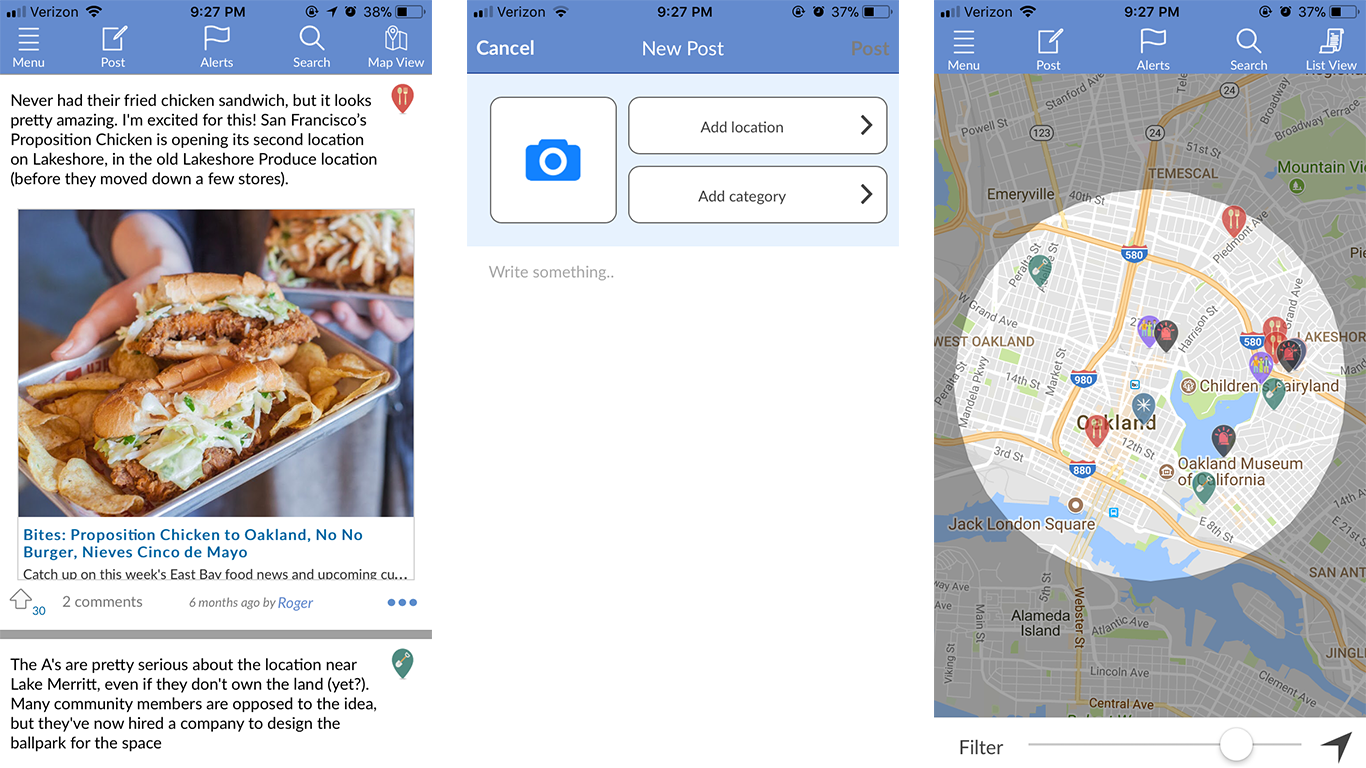
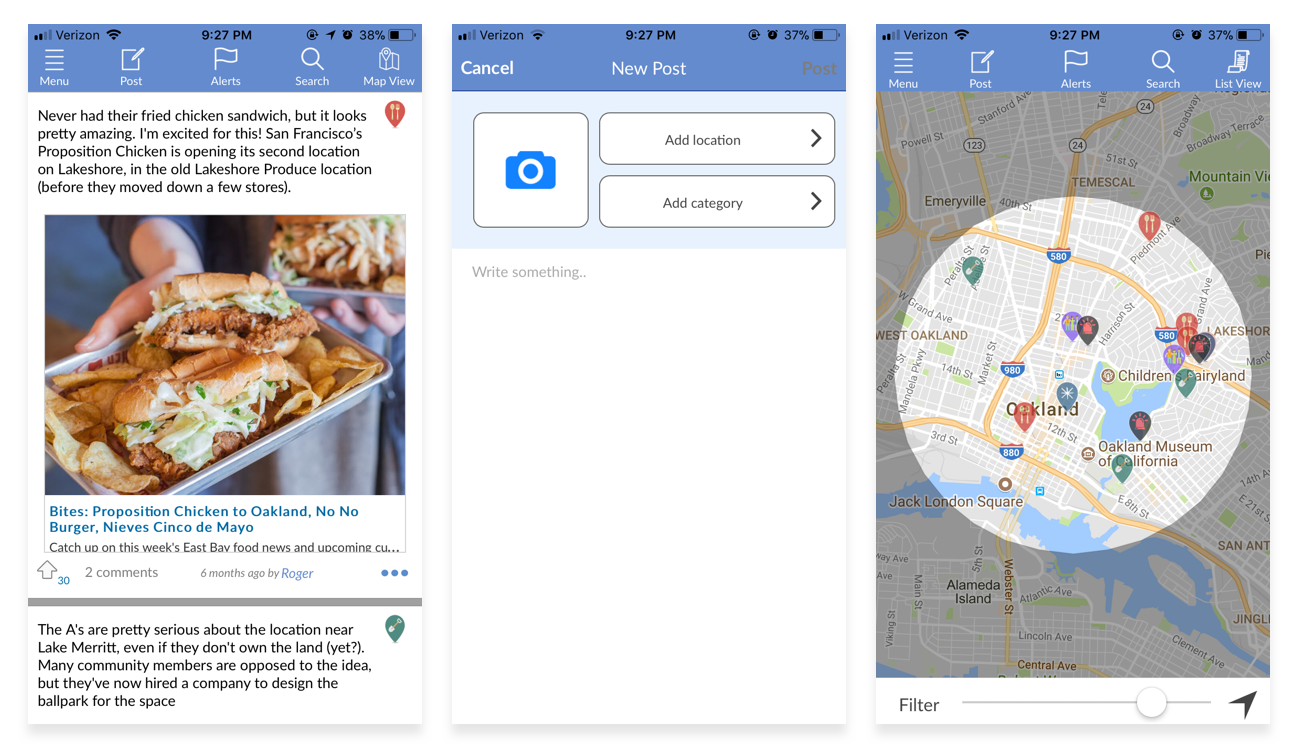
Add files via upload

diff --git a/seearoundme.html b/seearoundme.html
@@ -32,8 +32,8 @@
       <div class="cs-text" data-aos="fade-left" data-aos-duration="1000">
         <h2><u>SeeAroundMe</u></h2>
         <h4>Creating a better experience for skimming and sharing location-based news</h4><br>
-        <img src="images/seearoundme_main.png" data-aos="zoom-in">
       </div>
+      <div class="cs-image"><img src="images/seearoundme_main.png" data-aos="zoom-in" style=" width: 100%; max-width: 800px;"></div>
 
         <div class="cs-text">
           <div class="twocol">
@@ -46,24 +46,10 @@
 
         <div class="cs-text">
           <h5>The Challenge</h5> <h4><i>How can we improve the experience of quickly finding, consuming, and sharing local news?</i></h4>
-          <h5>The Process</h5>
-              <ul>
-                <li>Reviewing research</li>
-                <li>Task flows</li>
-                <li>Rapid prototyping</li>
-                <li>Lo-fi wireframes</li>
-                <li>User testing</li>
-                <li>Creating a style guide</li>
-                <li>Mid-fi prototype</li>
-                <li>Hi-fi prototype and testing</li>
-                </ul>
             </div>
-
-            <div class="cs-image">
-              <img src="images/sam_before.png"/ data-aos="fade-up"> Newsfeed, New Post, Map View - Before
-              <br><br>
-              <img src="images/sam_after.png"/ data-aos="fade-up"> Newsfeed, New Post, Map View - After
-            </div>
+            <br>
+            <img src="images/sam_designprocess.png"/ data-aos="fade-up">
+            <br><br>
 
             <div class="cs-text">
               <h5>The Solution</h5>
@@ -74,12 +60,23 @@
                 <li>Rebranding and visual re-design</li>
               </ul>
             </div>
+            <br><br>
+
+            <div class="cs-text" style="text-align: center;">
+              <h5>Before & After</h5>
+            </div>
+
+            <div class="cs-image">
+              <img src="images/sam_before.png"/ data-aos="fade-up">
+              <br><br>
+              <img src="images/sam_after.png"/ data-aos="fade-up">
+            </div>
+
         <hr class="style2">
 
         <div class="cs-text">
           <h3>Where do we begin?</h3>
           As a beginning-stage MVP application, SeeAroundMe’s app had some glaring usability issues, particularly with the <b>navigation and layout</b>.
-          There was much to be improved, so we had to decide which problems to address first.
           Previous research revealed that users wanted to be able to quickly <b>get their news at a glance</b> and be able to <b>easily find the posts that were most relevant</b> to them.
           We set out to create a more seamless and intuitive experience and tighten up the UI of the app by creating a style guide and implementing a visual re-design.
           <br><br>
@@ -91,7 +88,7 @@
           <div class="cs-image"><img src="images/sam_taskflows.png"/ data-aos="fade-up">A birds eye view of some of our task flow explorations</div>
 
           <h3>Goldilocks prototype testing</h3>
-          Our group design sprint led to the creation of initial lo-fi wireframes. We explored and tested 3 different versions to see which one would fit <i>just</i> right. Each prototype had its pros and cons so we incorporated feedback from each version, using one as the primary base.
+          Our group design sprint led to the creation of initial lo-fi wireframes. We explored and tested 3 different versions. Each prototype had its pros and cons so we incorporated feedback from each version, using one as the primary base.
           <div class="cs-image"><img src="images/sam_lofi.png"/ data-aos="fade-up">We tested 3 different prototype versions in our lo-fi phase</div>
 
           <h5>Key Considerations</h5>
@@ -110,11 +107,11 @@
           We came up with a handful of hi-fi examples that we chose from and developed further.
           </div>
 
-          <div class="cs-image"><img src="images/sam_styleguide.png"/ style="max-width: 400px;" data-aos="fade-up"></div>
+          <div class="cs-image"><img src="images/sam_styleguide.png"/ style="width: 100%; max-width: 600px;" data-aos="fade-up"></div>
 
           <div class="cs-text">
           <h3>Shaping up and shipping out</h3>
-          <div class="cs-image"><img src="images/sam_finalscreens.png"/ data-aos="fade-up"></div>
+          <img src="images/sam_final.png"/ data-aos="fade-up">
 
           <h5>Key Changes</h5>
 
@@ -132,12 +129,9 @@
 
           <br>
           <h3>Learnings & takeaways</h3>
-          Overall, the project went smoothly, thanks to great project management and organization. We learned the importance of <b>staying organized and detail-oriented</b> (we had more than 50 screens - that’s a lot of potential naming/labeling/layer mishaps), of <b>identifying key issues and maintaining focus</b>, narrowing project scope and managing feasibility, and creating a <b>cohesive visual style</b>.
+          We learned the importance of <b>staying organized and detail-oriented</b> (we had more than 50 screens - that’s a lot of potential naming/labeling/layer mishaps), of <b>identifying key issues and maintaining focus</b>, narrowing project scope and managing feasibility, and creating a <b>cohesive visual style</b>.
           <p>
-          We experienced the classic designer blackhole of choosing the *right* colors in full force, so I would be interested in exploring a <b>more systematic approach to this process</b>. We focused more on usability testing rather than exploratory user research, and the testing was done more qualitatively than quantitatively, so it would have been interesting to <b>approach the research process differently</b>.
-          One concern I have is introducing all of these significant changes at once, which could be shocking to the user. However, given that the user base is still quite small and inactive at this early stage, it won't cause as much of a splash as, say, a reddit redesign.
-          <p>
-          The client was pleased with the final result, particularly with how much we were able to get done in a short time frame. The prototype will go into development soon (in the next 3-5 months), and we are looking forward to seeing our work IRL. Once implemented, I'd like to test improvements in engagement.
+          We experienced the classic designer blackhole of choosing the *right* colors, so I would be interested in exploring a <b>more systematic approach to this process</b>. We focused on usability testing rather than exploratory user research, and qualitative rather than quantitative validation testing, so it would have been interesting to approach the research process differently.
       </div>
 </div>
 </body>

diff --git a/terminal49.html b/terminal49.html
@@ -51,19 +51,16 @@
           Traditionally, shipping industry logistics are primarily managed offline, with a slew of manual processes that create inefficiencies and frequent oversights.
           The users we were designing for had different needs and levels of tech-savvy, many of whom were not as comfortable adapting to new technology.
           We were tasked with helping these different users easily navigate through complex information on a dashboard interface in order to increase engagement and trust with Terminal 49.
+          </div>
 
-          <h5>The Process</h5>
-              <ul>
-                <li>Understanding the industry and users</li>
-                <li>Task flows and journey mapping</li>
-                <li>Information architecture and site map</li>
-                <li>Ideation and lo-fi wireframes</li>
-                <li>User testing and feedback</li>
-                <li>Mid-fi iteration</li>
-                <li>Style guide and visual design</li>
-                <li>Hi-fi prototype and validation testing</li>
-                </ul>
-            </div>
+          <br>
+          <img src="images/t49_designprocess.png"/ data-aos="fade-up">
+          <br><br>
+
+          <div class="cs-text" style="text-align: center;">
+            <h5>Before & After</h5>
+          </div>
+          
               <div class="twocol" data-aos="fade-up">
                 <div class="cs-image"><img src="images/t49_before.png"/>Dashboard - Before</div>
                 <div class="cs-image"><img src="images/t49_after.png"/>Dashboard - After</div>
@@ -144,14 +141,14 @@
           Went through several different iterations based on our testing feedback, continuing to refine and tweak the interface.
           Notably, we added a flagging feature, less icon usage (instead using buttons for actionable tasks), and a global search bar.
 
-          <div class="cs-image"><img src="images/t49_iterations.png" data-aos="fade-up"/></div>
-          
+          <br><br><img src="images/t49_iterations.png" data-aos="fade-up"/><br><br>
+
           <i>Due to the confidential nature of the project, I am unable to share the final prototype.</i>
           <br><br>
 
           <h3>Learnings & takeaways</h3>
 
-          This project was an excersize in brainstorming and ideation, rather than solutionizing.
+          This project was an excersise in brainstorming and ideation, rather than solutionizing.
           We explored many options and went through several iterations until settling on something the client was happy with.
           At times it felt like we didn’t have clarity of direction, especially with the steep learning curve of learning about a complex industry and software product, but through collaboratively thinking through the challenges we ran into, we were able to better wrap our heads around the problem set.
           <p>
@@ -159,8 +156,7 @@
           We were designing for users who were less tech-savvy than the typical SaaS user.
           We also ran into the issue of displaying the data for one user we tested with who was dyslexic.
           We also considered the size of the text, since some users also fit into an older age group.
-          It would have been great to test with more users, but for confidentiality reasons, we could not test with anyone outside the company, thus our user testing was not fully representative of the end user.
-          The project is currently under development and some changes have already been implemented.
+          For confidentiality reasons, we could not test with anyone outside the company, thus our testing was not fully representative of the end user.
 
       </div>
     </div>

diff --git a/crowdfundms.html b/crowdfundms.html
@@ -46,24 +46,22 @@
 
         <div class="cs-text">
           <h5>The Challenge</h5> <h4><i>How can we make it easier for social entrepreneurs to crowdfund their projects with like-minded community investors?</i></h4>
-          <h5>The Process</h5>
-              <ul>
-                <li>Competitive analysis</li>
-                <li>User research / customer development</li>
-                <li>Persona creation</li>
-                <li>Task flows and site map</li>
-                <li>Lo-fi prototyping and testing</li>
-                <li>Style guide</li>
-                <li>Hi-fi prototype and testing</li>
-                </ul>
             </div>
+
+            <br>
+            <img src="images/cfms_designprocess.png"/ data-aos="fade-up">
+            <br><br>
+
+            <div class="cs-text">
+                Our main focuses were the <b>landing page, onboarding and campaign pages</b>, which we deemed to be the most essential parts of the platform.
+            </div>
+
               <div class="twocol" data-aos="fade-up">
                 <div class="cs-image"><img src="images/cfms_preview1.png"/></div>
                 <div class="cs-image"><img src="images/cfms_preview2.png"/></div>
             </div>
 
             <div class="cs-text">
-                Our main focuses were the <b>landing page, onboarding and campaign pages</b>, which we deemed to be the most essential parts of the platform.
             <h5>Design Goals & Business Objectives</h5>
               <ul>
                 <li>Develop a two-sided marketplace with value alignment</li>
@@ -73,7 +71,7 @@
                 <li>Create a landing page that attracts potential investors to join the platform</li>
                 <li>Create a campaign page that provides enough information and incentive for investors to invest</li>
               </ul>
-          </div>
+            </div>
 
         <hr class="style2">
 
@@ -137,7 +135,7 @@
           As part of the onboarding team, our main goal was to create a low-friction sign up flow.
           We considered several versions of flows, trying to balance quick & easy completion with gathering enough upfront information during the sign up process to best match investors and issuers.
 
-          <div class="cs-image"><img src="images/cfms_onboarding.png"/ data-aos="fade-up"></div>
+          <img src="images/cfms_onboarding.png"/ data-aos="fade-up">
 
           <h5>Key Considerations</h5>
 

diff --git a/about.html b/about.html
@@ -34,6 +34,7 @@
           <a href="https://twitter.com/_lindahsu" target="_blank" class="fa fa-twitter"></a>
           <a href="https://www.linkedin.com/in/hsulinda/" target="_blank" class="fa fa-linkedin"></a>
           <a href="mailto:lindahsudesign@gmail.com" class="fa fa-envelope"></a>
+          <br>
         </div>
     </div>
           <div id="abouttext">
@@ -43,6 +44,8 @@
           My philosophy is that designers shape many of the invisible forces around us, and it's up to us to use that influence to make <a href="https://m.signalvnoise.com/move-slowly-and-fix-things-e5a560fd928b" target="_blank">thoughtful decisions</a> that extend beyond product growth and short-term metrics.
           <p><p>
           When I'm not designing, you'll catch me practicing yoga, cooking delicious veg food, citing information from podcasts, pretending to be outdoorsy, travelling the world, making <a href="https://open.spotify.com/user/hsupernova" target="_blank">spotify playlists</a>, putting too much hot sauce on my food, making pottery, trying to keep plants alive, thinking about dystopian futures, and... making lists.
+          <p>
+          <i style="font-size: .8em">This site was designed and developed by yours truly.</i>
         </div>
 </div>
 </body>

diff --git a/css/style.css b/css/style.css
@@ -5,8 +5,8 @@
 	box-sizing: border-box;
 }
 body {
-	font-size: 1.25em;
-  line-height: 1.75em;
+	font-size: 1.15em;
+  line-height: 2em;
 	font-family: 'Open Sans', sans-serif;
   font-weight: 300;
   color: #4c4c4c;
@@ -27,7 +27,7 @@ h1 {
 }
 h2 {
   font-family: 'ff-carina', serif;
-  font-size: 2.75em;
+  font-size: 2.5em;
   font-weight: 400;
   line-height: 1.15em;
   letter-spacing: 0px;
@@ -51,7 +51,7 @@ h4 {
 }
 h5 {
   font-family: 'Open Sans', sans-serif;
-  font-size: .8em;
+  font-size: 1em;
   font-weight: 600;
   line-height: 1.5em;
   color: #4c4c4c;
@@ -92,6 +92,7 @@ li {
 .container {
 	margin: 2% auto;
 	padding: 2%;
+  max-width: 1350px;
 }
 #work {
   padding-top: 5%;
@@ -125,6 +126,7 @@ li {
   padding: 5px;
   display: inline;
   line-height: 0;
+  font-size: 1.25em;
 }
 .navbar li {
   display: inline;
@@ -281,7 +283,7 @@ img {
   padding: 5%
 }
 .cs-text {
-  max-width: 800px;
+  max-width: 750px;
   margin: auto;
 }
 @media (max-width: 800px) {
@@ -303,7 +305,7 @@ img {
             font-size: .9em;
           }
           body {
-            font-size: 1.2em;
+            font-size: 1em;
           }
           .container {
             margin: 0;
